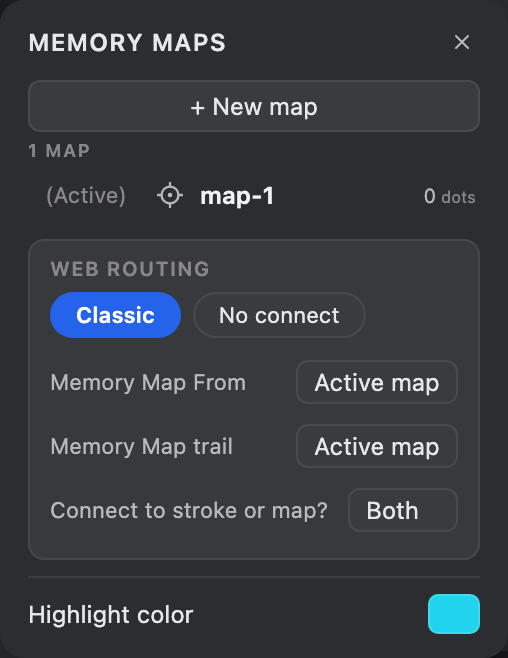
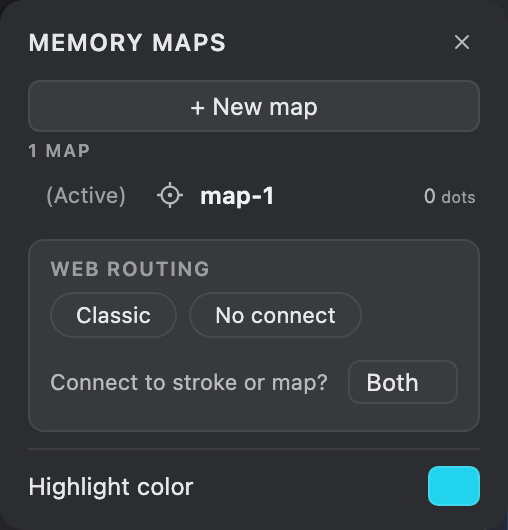
docs: drop the connection layer from the book; refresh panels
Update the book for the layers simplification: the connecting web now lands on
the active layer (no separate connection layer), and the Maps panel's web
routing no longer pins From/trail maps. Regenerate the Layers + Maps panel
figures. Fix capture-panels.mjs to reach the Start page via the G shortcut
(first run now opens the mandala directly).

diff --git a/docs/book/layers.html b/docs/book/layers.html
@@ -25,31 +25,15 @@
       <h2>The layers panel</h2>
       <p>
         Open it from the <strong>Windows</strong> menu or with <span class="kbd">l</span>.
-        Each layer is its own canvas. Strokes land on the <strong>active</strong>
-        layer - click a layer row to make it active. Connecting lines land on the
-        <strong>connection layer</strong> instead (see below), which can
-        be a different layer. The panel lists layers top-down in the same order
-        they stack on screen - drag a row by its grip handle to reorder them
-        (see below).
+        Each layer is its own canvas. Strokes - and the connecting web they weave -
+        land on the <strong>active</strong> layer; click a layer row to make it
+        active. The panel lists layers top-down in the same order they stack on
+        screen - drag a row by its grip handle to reorder them (see below).
       </p>
       <div class="note">
-        New artwork starts with two layers: <strong>layer-2</strong> active for
-        painting on top, and <strong>layer-1</strong> as the connection layer
-        beneath - so the web builds under your strokes by default.
+        New artwork starts with two layers, with <strong>layer-2</strong> active
+        for painting on top.
       </div>
-
-      <h2>The connection layer</h2>
-      <p>
-        Exactly one layer is always the connection layer, marked by the link
-        button
-        <span class="conn-glyph"><svg viewBox="0 0 24 24" width="14" height="14" fill="none" stroke="currentColor" stroke-width="2" stroke-linecap="round" aria-hidden="true"><line x1="8.7" y1="15.3" x2="15.3" y2="8.7"/><circle cx="6.3" cy="17.7" r="3" fill="currentColor" stroke="none"/><circle cx="17.7" cy="6.3" r="3" fill="currentColor" stroke="none"/></svg></span>
-        on its row. It's the layer connecting brushes lay their web onto.
-        Click another row's link to move it there; it's independent of the
-        active layer, so you can paint on one layer while the web accumulates on
-        another. Whether a brush connects at all is its
-        <em>Connect to stroke or map?</em> setting - see
-        <a href="/book/map.html">connecting</a>.
-      </p>
 
       <h2>Reordering layers</h2>
       <p>
@@ -62,10 +46,8 @@
       </p>
       <p>
         When you drop, the stack renumbers cleanly and the
-        <strong>selected layer</strong> and the
-        <strong>connection-layer marker</strong> stay with their layers (so the
-        same layer is still active, just at its new height). A reorder is a single
-        undo step.
+        <strong>selected layer</strong> stays with its layer (so the same layer is
+        still active, just at its new height). A reorder is a single undo step.
       </p>
 
       <h2>Per-layer controls</h2>
@@ -76,12 +58,10 @@
         <dd>Double-click to rename.</dd>
         <dt>Opacity</dt>
         <dd>Blend the whole layer over the ones beneath it (0–100%).</dd>
-        <dt>Connection layer (link button)</dt>
-        <dd>Make this the connection layer - where connecting lines are drawn. Always exactly one; click to move it here.</dd>
         <dt>Duplicate</dt>
-        <dd>Copy the layer and its pixels into a new layer above. Duplicating the connection layer hands the marker to the copy.</dd>
+        <dd>Copy the layer and its pixels into a new layer above.</dd>
         <dt>Delete</dt>
-        <dd>Remove the layer (at least one must remain). Deleting the connection layer passes the connection to the layer beneath it.</dd>
+        <dd>Remove the layer (at least one must remain).</dd>
         <dt>Background</dt>
         <dd>The bottom row sets the canvas background colour, or tick <strong>Transparent</strong> for no background - the canvas shows a checkerboard and exports to a transparent PNG. (Picking a colour turns transparency back off.)</dd>
       </dl>
@@ -95,7 +75,7 @@
 
       <h2>Tips</h2>
       <ul>
-        <li>Keep the connecting web on its own layer (the default connection layer) so you can fade or delete it without touching the strokes.</li>
+        <li>Add a fresh layer before a new pass so you can blend or remove it without touching the work beneath.</li>
         <li>Duplicate a layer before a risky pass - it's a cheap snapshot.</li>
         <li>Reorder by the grip, not the row - dragging elsewhere selects or edits the layer instead.</li>
         <li>Drag any panel by its title bar to get it out of the way.</li>
@@ -103,10 +83,9 @@
 
       <div class="tip">
         <span class="tip-label">Try this</span>
-        Paint your strokes on the top layer and let the web pile up on the
-        connection layer beneath. When you're done, drop that layer's
-        <em>Opacity</em> until the web is just a whisper behind your marks - or
-        hide it entirely - all without disturbing a single stroke.
+        Duplicate a finished layer, then drop the copy's <em>Opacity</em> and blend
+        it back over the original for a soft, layered glow - all without disturbing
+        the strokes beneath.
       </div>
     </main>
 

diff --git a/docs/book/ui/maps-panel.html b/docs/book/ui/maps-panel.html
@@ -54,27 +54,21 @@
 
       <h2>Web routing</h2>
       <p>
-        The group below the map list controls how a connecting brush uses maps -
-        which one it reads from and writes to. (It used to live in the brush's
-        Web tab; it belongs with the maps it points at.) It shows only for
-        brushes that weave a web.
+        The group below the map list controls how a connecting brush connects. It
+        shows only for brushes that weave a web; the web reads from and trails into
+        the active map automatically.
       </p>
       <dl class="settings">
         <dt>Classic / No connect</dt>
-        <dd>Quick presets: <strong>Classic</strong> reads and writes the active map; <strong>No connect</strong> turns the web off.</dd>
-        <dt>Memory Map From</dt>
-        <dd>The map whose points the web reaches toward (pulled <em>from</em>). The list tracks your maps live.</dd>
-        <dt>Memory Map trail</dt>
-        <dd>The map this stroke's points are written <em>to</em>; <em>No trail</em> draws without recording.</dd>
+        <dd>Quick presets: <strong>Classic</strong> weaves the web; <strong>No connect</strong> turns it off.</dd>
         <dt>Connect to stroke or map?</dt>
         <dd>Connect to old points, this stroke, both, or nothing - see <a href="/book/map.html">Memory maps</a> for the full breakdown.</dd>
       </dl>
 
       <div class="tip">
         <span class="tip-label">Tip</span>
-        Keep a clean map of just the points you want to connect, then draw on a
-        fresh layer that reaches into it - the web threads toward your remembered
-        shape without re-drawing it.
+        Keep a clean map of just the points you want to connect and make it active,
+        then weave - the web threads toward your remembered shape without re-drawing it.
       </div>
     </main>
 

diff --git a/docs/book/map.html b/docs/book/map.html
@@ -75,19 +75,13 @@
       <h3>Web routing <span class="tag">where</span></h3>
       <p>
         These controls live in the
-        <a href="/book/ui/maps-panel.html">Maps panel</a>. Connection lines
-        always land on the
-        <a href="/book/layers.html"><strong>connection layer</strong></a> - the
-        layer marked with the link icon in the Layers panel. Move that marker to
-        send the web to a different layer. Whether to connect at all is the
-        <em>Connect to stroke or map?</em> setting below (<em>None</em> turns it
-        off).
+        <a href="/book/ui/maps-panel.html">Maps panel</a>. Connection lines land
+        on the <a href="/book/layers.html">active layer</a>, alongside your
+        strokes, and read from and trail into the active map. Whether to connect at
+        all is the <em>Connect to stroke or map?</em> setting below (<em>None</em>
+        turns it off).
       </p>
       <dl class="settings">
-        <dt>Memory Map From</dt>
-        <dd>The map whose neighbours are searched (where lines are pulled <em>from</em>).</dd>
-        <dt>Memory Map trail</dt>
-        <dd>The map this stroke's points are written <em>to</em>. <em>No trail</em> draws connections without recording anything.</dd>
         <dt>Connect to stroke or map?</dt>
         <dd>
           <strong>Both</strong> - connect to old points and this stroke.

diff --git a/docs/book/ui/layers-panel.html b/docs/book/ui/layers-panel.html
@@ -27,10 +27,10 @@
       <h2>What it is</h2>
       <p>
         Lists your layers top-down in the order they stack on screen. Click a row
-        to make it the <strong>active</strong> layer (where strokes land); the
-        link button marks the <strong>connection layer</strong> (where the web is
-        drawn). The bottom row sets the canvas background. For the bigger picture
-        - layers vs the shared memory - see <a href="/book/layers.html">Layers</a>.
+        to make it the <strong>active</strong> layer (where strokes - and the
+        connecting web - land). The bottom row sets the canvas background. For the
+        bigger picture - layers vs the shared memory - see
+        <a href="/book/layers.html">Layers</a>.
       </p>
 
       <h2>Per-row controls</h2>
@@ -41,8 +41,6 @@
         <dd>Double-click to rename.</dd>
         <dt>Opacity</dt>
         <dd>Blend the layer over the ones beneath (0-100%).</dd>
-        <dt>Connection-layer link</dt>
-        <dd>Make this the layer connecting brushes draw their web onto (always exactly one).</dd>
         <dt>Duplicate / Delete</dt>
         <dd>Copy a layer (a cheap snapshot) or remove it (at least one stays).</dd>
         <dt>Background row</dt>

diff --git a/docs/book/bigger-areas.html b/docs/book/bigger-areas.html
@@ -63,7 +63,7 @@
         <li><strong>If it goes muddy / solid black</strong>, don't lower Weight - lower <em>Opacity</em> and/or <em>Density</em>. Keep many faint hairs; just make each fainter. Saturation is what kills the texture.</li>
         <li><strong>Build in passes.</strong> Several light passes read richer than one heavy stroke - that's the Harmony way (tone accumulates).</li>
         <li><strong>Weight, not thickness.</strong> Use Weight + Spread for size, never a fat line. (At Weight 1 it's a single thin, delicate line.)</li>
-        <li><strong>Keep it on its own layer.</strong> Put the web on the <a href="/book/layers.html">connection layer</a> so you can fade its opacity or erase it without touching your strokes.</li>
+        <li><strong>Give it its own layer.</strong> Weave the web on a separate <a href="/book/layers.html">layer</a> so you can fade its opacity or erase it without touching your strokes.</li>
         <li><strong>Speed is feel-based</strong> - it reads how fast you move, so the same settings give a lively, varied mark.</li>
       </ul>
 

diff --git a/docs/book/dev/connections.html b/docs/book/dev/connections.html
@@ -152,7 +152,7 @@ export default class HatchConnection extends ConnectionBase {
         <dt><code>drawHair(...)</code></dt>
         <dd>Shape one fanned hair (override for fur-like textures); the base draws it straight.</dd>
         <dt><code>drawConnection(p1, p2, style)</code> / <code>random()</code></dt>
-        <dd>Draw a line onto the connection layer; pull seeded randomness.</dd>
+        <dd>Draw a line onto the active layer; pull seeded randomness.</dd>
       </dl>
 
       <div class="note">

diff --git a/docs/book/eraser.html b/docs/book/eraser.html
@@ -41,7 +41,7 @@
       </p>
       <ul>
         <li>Pick the brush whose footprint you want, then toggle the eraser on.</li>
-        <li>It erases the <a href="/book/layers.html">active layer</a> only. To rub out the connecting web, make the <strong>connection layer</strong> active first.</li>
+        <li>It erases the <a href="/book/layers.html">active layer</a> only - including any connecting web woven onto it.</li>
         <li>Toggle the eraser off to go straight back to painting with that same brush.</li>
       </ul>
 